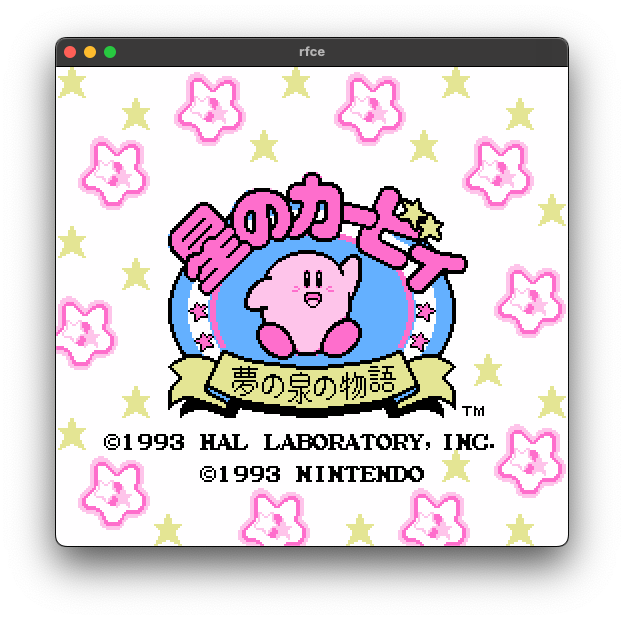
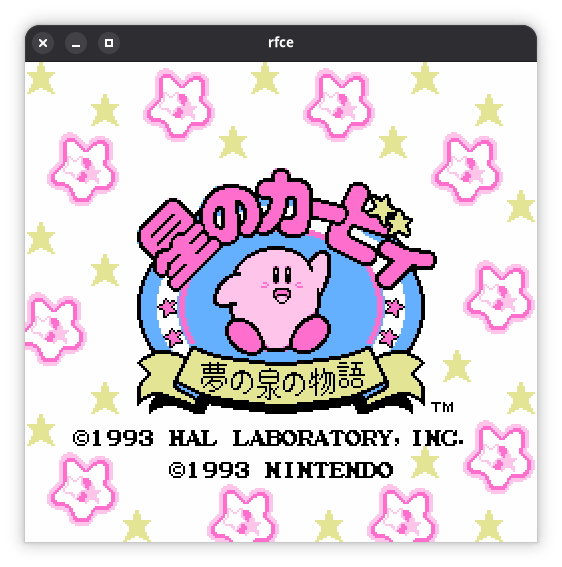
Update README to point to the new Mesen repo Also change the screenshot to a GNOME one (the dead space around the macOS screenshot was bothering me lol)

diff --git a/README.md b/README.md
@@ -72,5 +72,5 @@ The following is an incomplete list of features that are not (yet) implemented.
 
 ## Useful sources
 
-- The [Nesdev Wiki](https://www.nesdev.org/wiki/Nesdev_Wiki)
-- The [Mesen emulator](https://www.github.com/SourMesen/Mesen2). It's extensive debugging capabilities are especially useful!
+- [Nesdev.org](https://www.nesdev.org/) (especially the [Nesdev Wiki](https://www.nesdev.org/wiki/Nesdev_Wiki)) contains essentially everything there is to know about the Famicom and NES.
+- The [Mesen emulator](https://www.github.com/nesdev-org/MesenCE). It's high accuracy and extensive debugging capabilities are especially useful!
